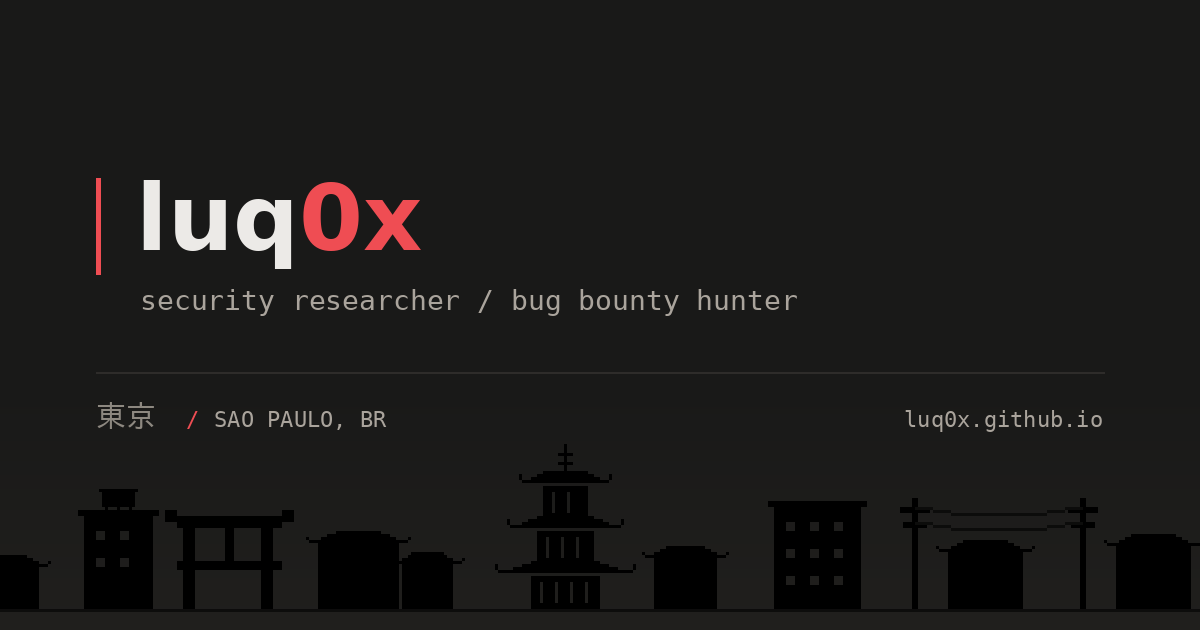
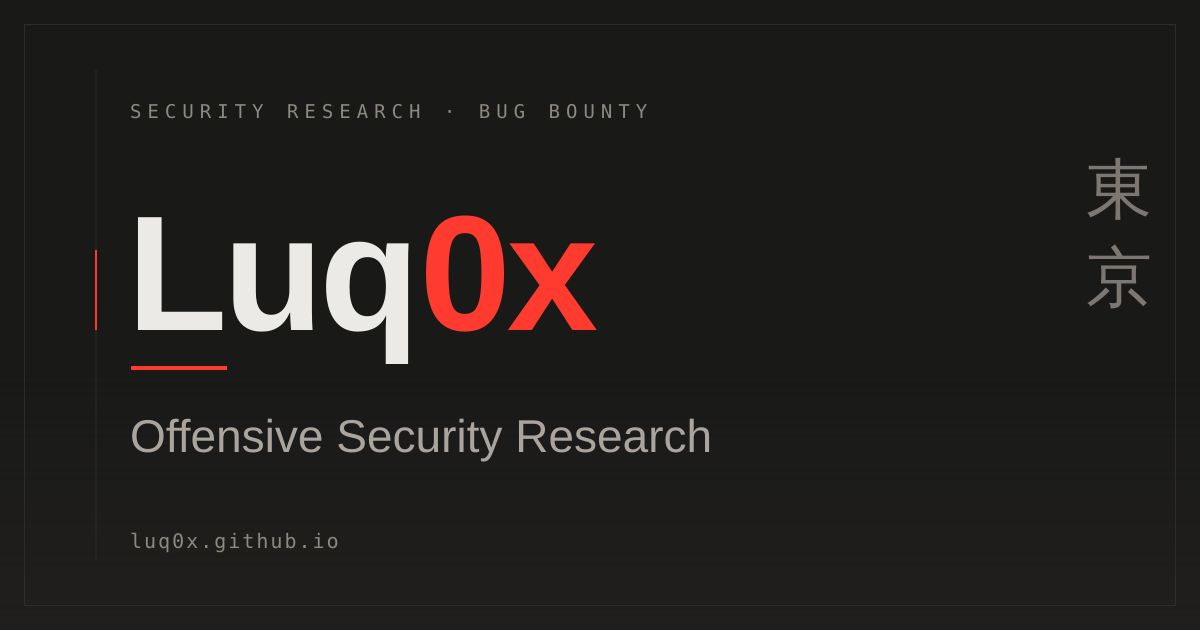
Refresh OG image and add bounty proof slot to writeup
- Regenerate public/og.png with the new "Luq0x" branding, matching
  the site's dark theme, red accent and 東京 rail motif
- Add a "Bounty proof" section at the end of the writeup (both
  pt-br and en) with an on-theme placeholder image to be swapped
  for the real bounty screenshot (assets/writeups/001/bounty-proof.png)

Claude-Session: https://claude.ai/code/session_014CHBABuF9AmFu7arwpJF97

diff --git a/src/content/writeups/pt-br/chained-idor.md b/src/content/writeups/pt-br/chained-idor.md
@@ -100,3 +100,9 @@ Lições aprendidas?
 - Severidade: Alta
 
 Keep Hacking!
+
+---
+
+## Comprovante do bounty
+
+![Comprovante do bounty](../../../assets/writeups/001/bounty-proof.png)

diff --git a/src/content/writeups/en/chained-idor.md b/src/content/writeups/en/chained-idor.md
@@ -97,3 +97,9 @@ Lessons learned?
 - Severity: High
 
 Keep Hacking!
+
+---
+
+## Bounty proof
+
+![Bounty proof](../../../assets/writeups/001/bounty-proof.png)
